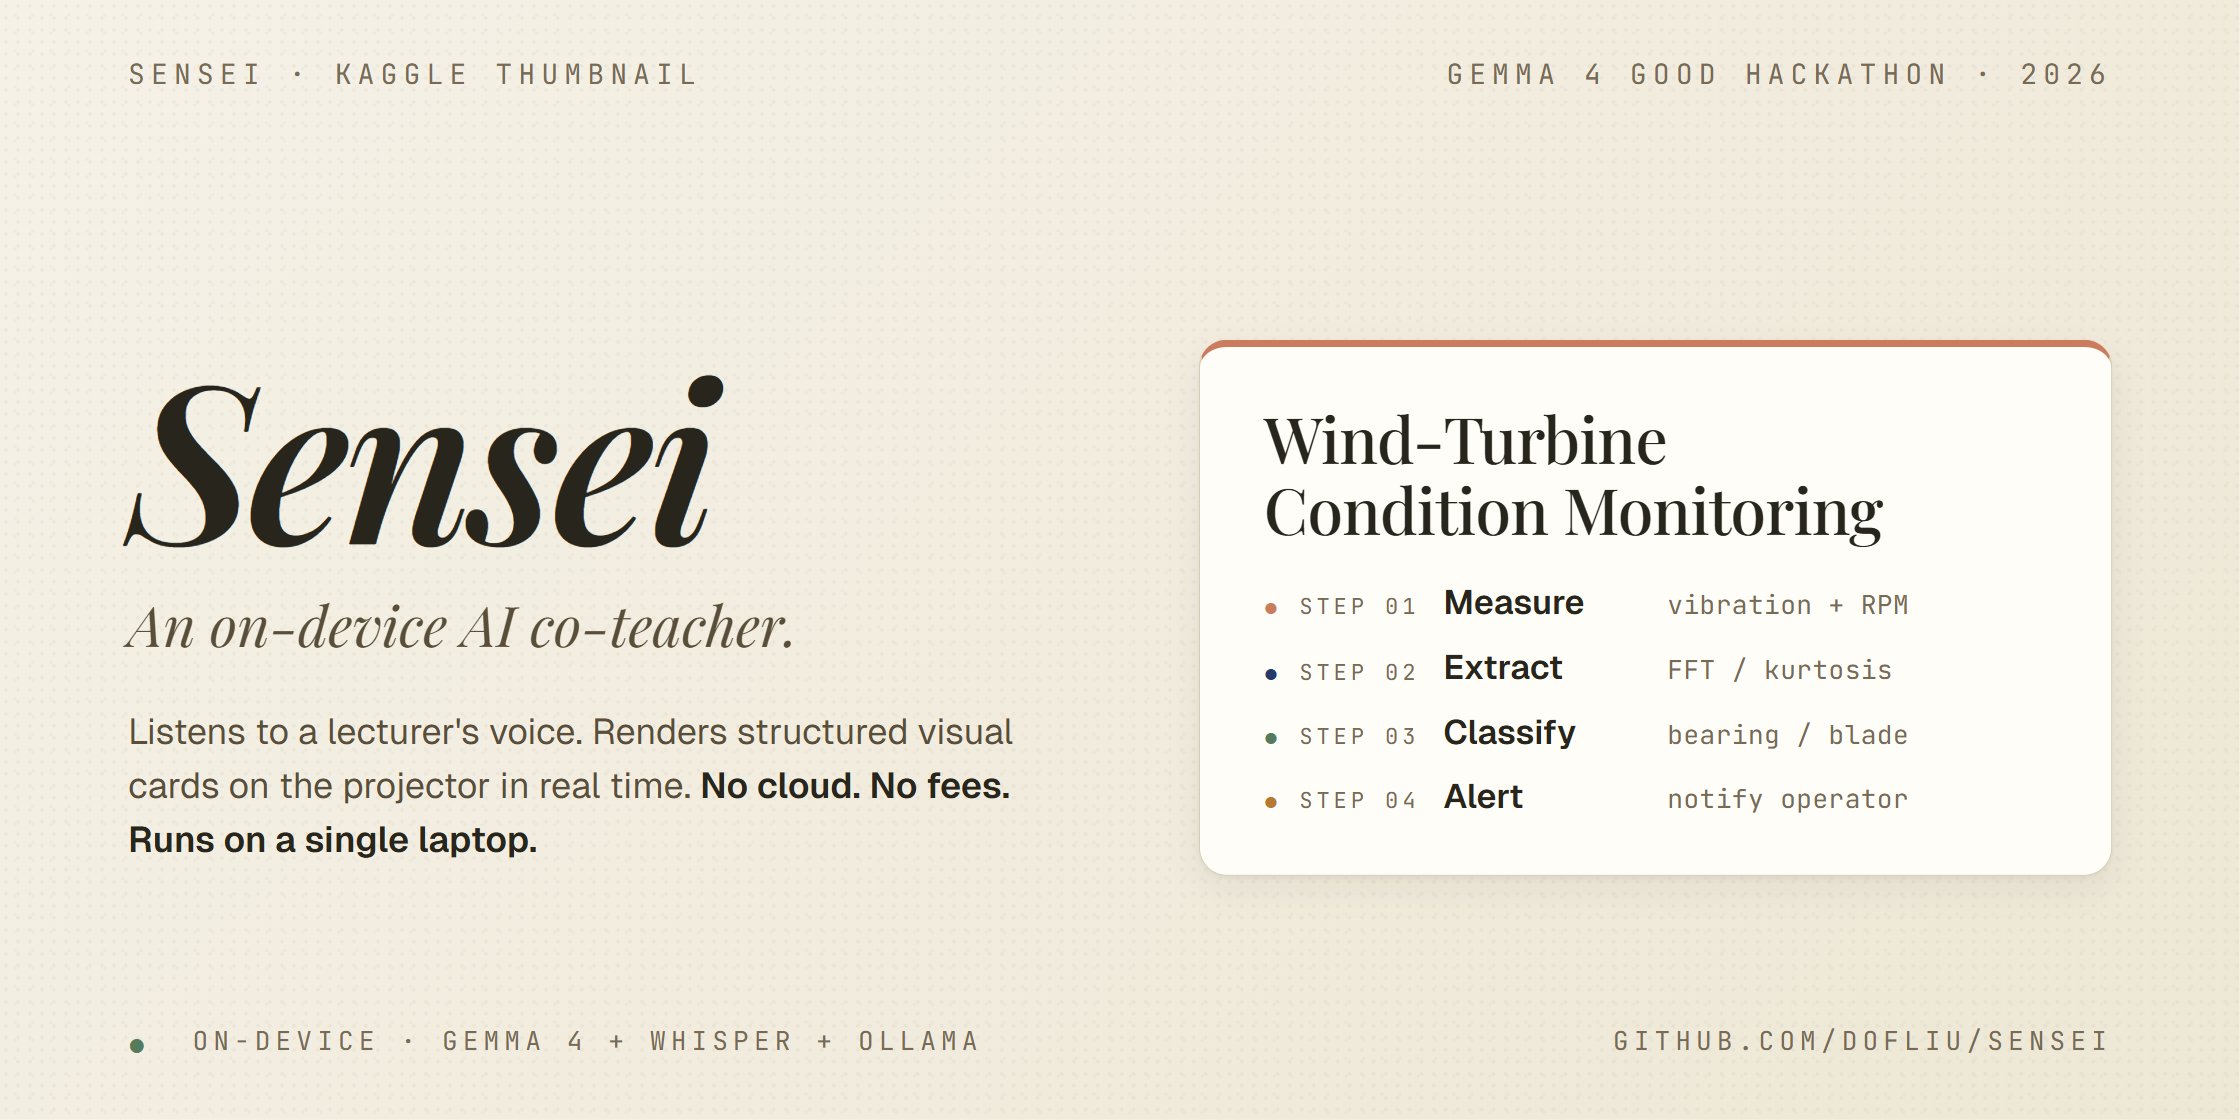
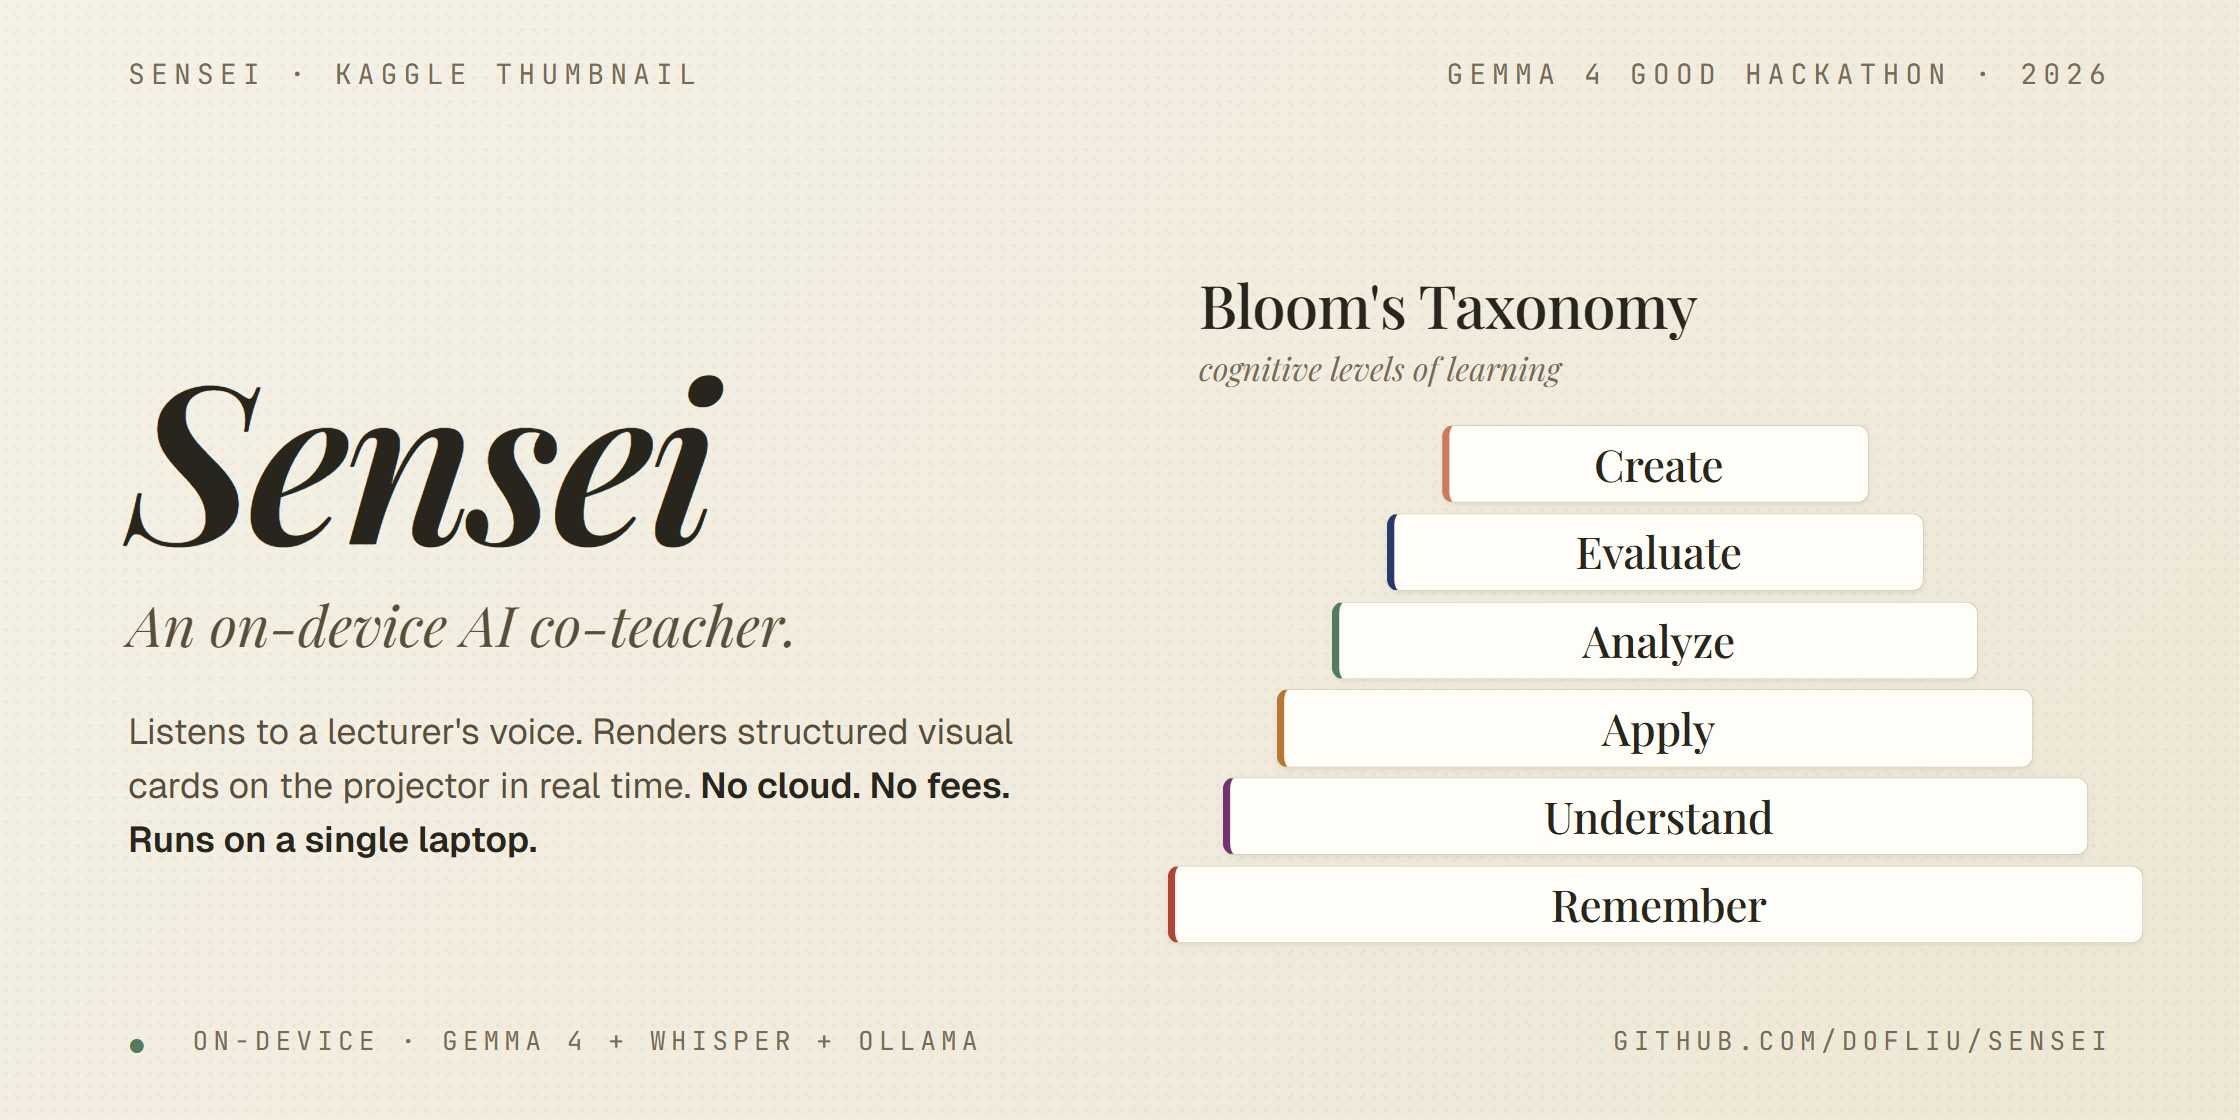
Swap thumbnail right-card from Wind-Turbine to Bloom's Taxonomy
The previous wind-turbine flow framed Sensei as an industrial-monitoring
tool. Bloom's Taxonomy is universally legible as "education / learning"
and directly signals Sensei's pitch: built for teachers.

- Right column now shows a 6-level pyramid (Create → Remember)
- Each layer uses one accent from the paper palette as a left rule
- Same pyramid template that ships in core/templates.py — eats our
  own dogfood

Changed region(s): [[0.5, 0.25, 0.9688, 0.8438]]

diff --git a/docs/thumbnail/thumbnail.html b/docs/thumbnail/thumbnail.html
@@ -84,50 +84,51 @@
   .left .pitch strong { color: #29261b; font-weight: 600; }
 
   .card {
-    background: #fffdf6;
-    border: 1px solid #d8cdb3;
-    border-top: 4px solid #D97757;
-    border-radius: 14px;
-    padding: 28px 32px;
-    box-shadow:
-      0 1px 2px rgba(15,13,10,0.05),
-      0 6px 16px rgba(15,13,10,0.06);
+    background: transparent;
+    padding: 0;
   }
   .card .card-title {
     font-family: 'Playfair Display', serif;
-    font-size: 32px;
+    font-size: 30px;
     font-weight: 500;
     color: #29261b;
     line-height: 1.1;
     letter-spacing: -0.012em;
+    margin-bottom: 4px;
+  }
+  .card .card-subtitle {
+    font-family: 'Playfair Display', serif;
+    font-style: italic;
+    font-size: 16px;
+    color: #7a6a52;
     margin-bottom: 18px;
   }
-  .card .steps {
-    display: flex; flex-direction: column; gap: 10px;
+  /* Bloom's Pyramid — narrow apex (Create) → wide base (Remember) */
+  .pyramid {
+    display: flex; flex-direction: column; gap: 5px; align-items: center;
   }
-  .step {
-    display: flex; align-items: baseline; gap: 12px;
-    font-family: 'Geist', sans-serif;
-    font-size: 17px;
+  .layer {
+    background: #fffdf6;
+    border: 1px solid #d8cdb3;
+    border-radius: 6px;
+    padding: 8px 18px;
+    text-align: center;
+    box-shadow:
+      0 1px 1px rgba(15,13,10,0.04),
+      0 2px 5px rgba(15,13,10,0.03);
+    font-family: 'Playfair Display', serif;
+    font-size: 22px;
+    font-weight: 500;
+    color: #29261b;
+    line-height: 1;
+    letter-spacing: -0.01em;
   }
-  .step-num {
-    font-family: 'JetBrains Mono', monospace;
-    font-size: 11px;
-    letter-spacing: 0.18em;
-    text-transform: uppercase;
-    color: #7a6a52;
-    min-width: 64px;
-  }
-  .step-num .bullet { font-size: 13px; vertical-align: -1px; }
-  .step .name {
-    color: #29261b; font-weight: 600; min-width: 100px;
-  }
-  .step .desc {
-    color: #7a6a52;
-    font-family: 'JetBrains Mono', monospace;
-    font-size: 13px;
-    letter-spacing: 0.02em;
-  }
+  .l1 { width: 38%; border-left: 4px solid #D97757; }
+  .l2 { width: 50%; border-left: 4px solid #1F3A6E; }
+  .l3 { width: 62%; border-left: 4px solid #4A7C59; }
+  .l4 { width: 74%; border-left: 4px solid #C2741B; }
+  .l5 { width: 86%; border-left: 4px solid #7D2E6E; }
+  .l6 { width: 98%; border-left: 4px solid #C0392B; }
 </style>
 </head>
 <body>
@@ -148,28 +149,15 @@
     </div>
     <div class="right">
       <div class="card">
-        <div class="card-title">Wind-Turbine<br>Condition Monitoring</div>
-        <div class="steps">
-          <div class="step">
-            <div class="step-num"><span class="bullet" style="color:#D97757">●</span> STEP 01</div>
-            <div class="name">Measure</div>
-            <div class="desc">vibration + RPM</div>
-          </div>
-          <div class="step">
-            <div class="step-num"><span class="bullet" style="color:#1F3A6E">●</span> STEP 02</div>
-            <div class="name">Extract</div>
-            <div class="desc">FFT / kurtosis</div>
-          </div>
-          <div class="step">
-            <div class="step-num"><span class="bullet" style="color:#4A7C59">●</span> STEP 03</div>
-            <div class="name">Classify</div>
-            <div class="desc">bearing / blade</div>
-          </div>
-          <div class="step">
-            <div class="step-num"><span class="bullet" style="color:#C2741B">●</span> STEP 04</div>
-            <div class="name">Alert</div>
-            <div class="desc">notify operator</div>
-          </div>
+        <div class="card-title">Bloom's Taxonomy</div>
+        <div class="card-subtitle">cognitive levels of learning</div>
+        <div class="pyramid">
+          <div class="layer l1">Create</div>
+          <div class="layer l2">Evaluate</div>
+          <div class="layer l3">Analyze</div>
+          <div class="layer l4">Apply</div>
+          <div class="layer l5">Understand</div>
+          <div class="layer l6">Remember</div>
         </div>
       </div>
     </div>
